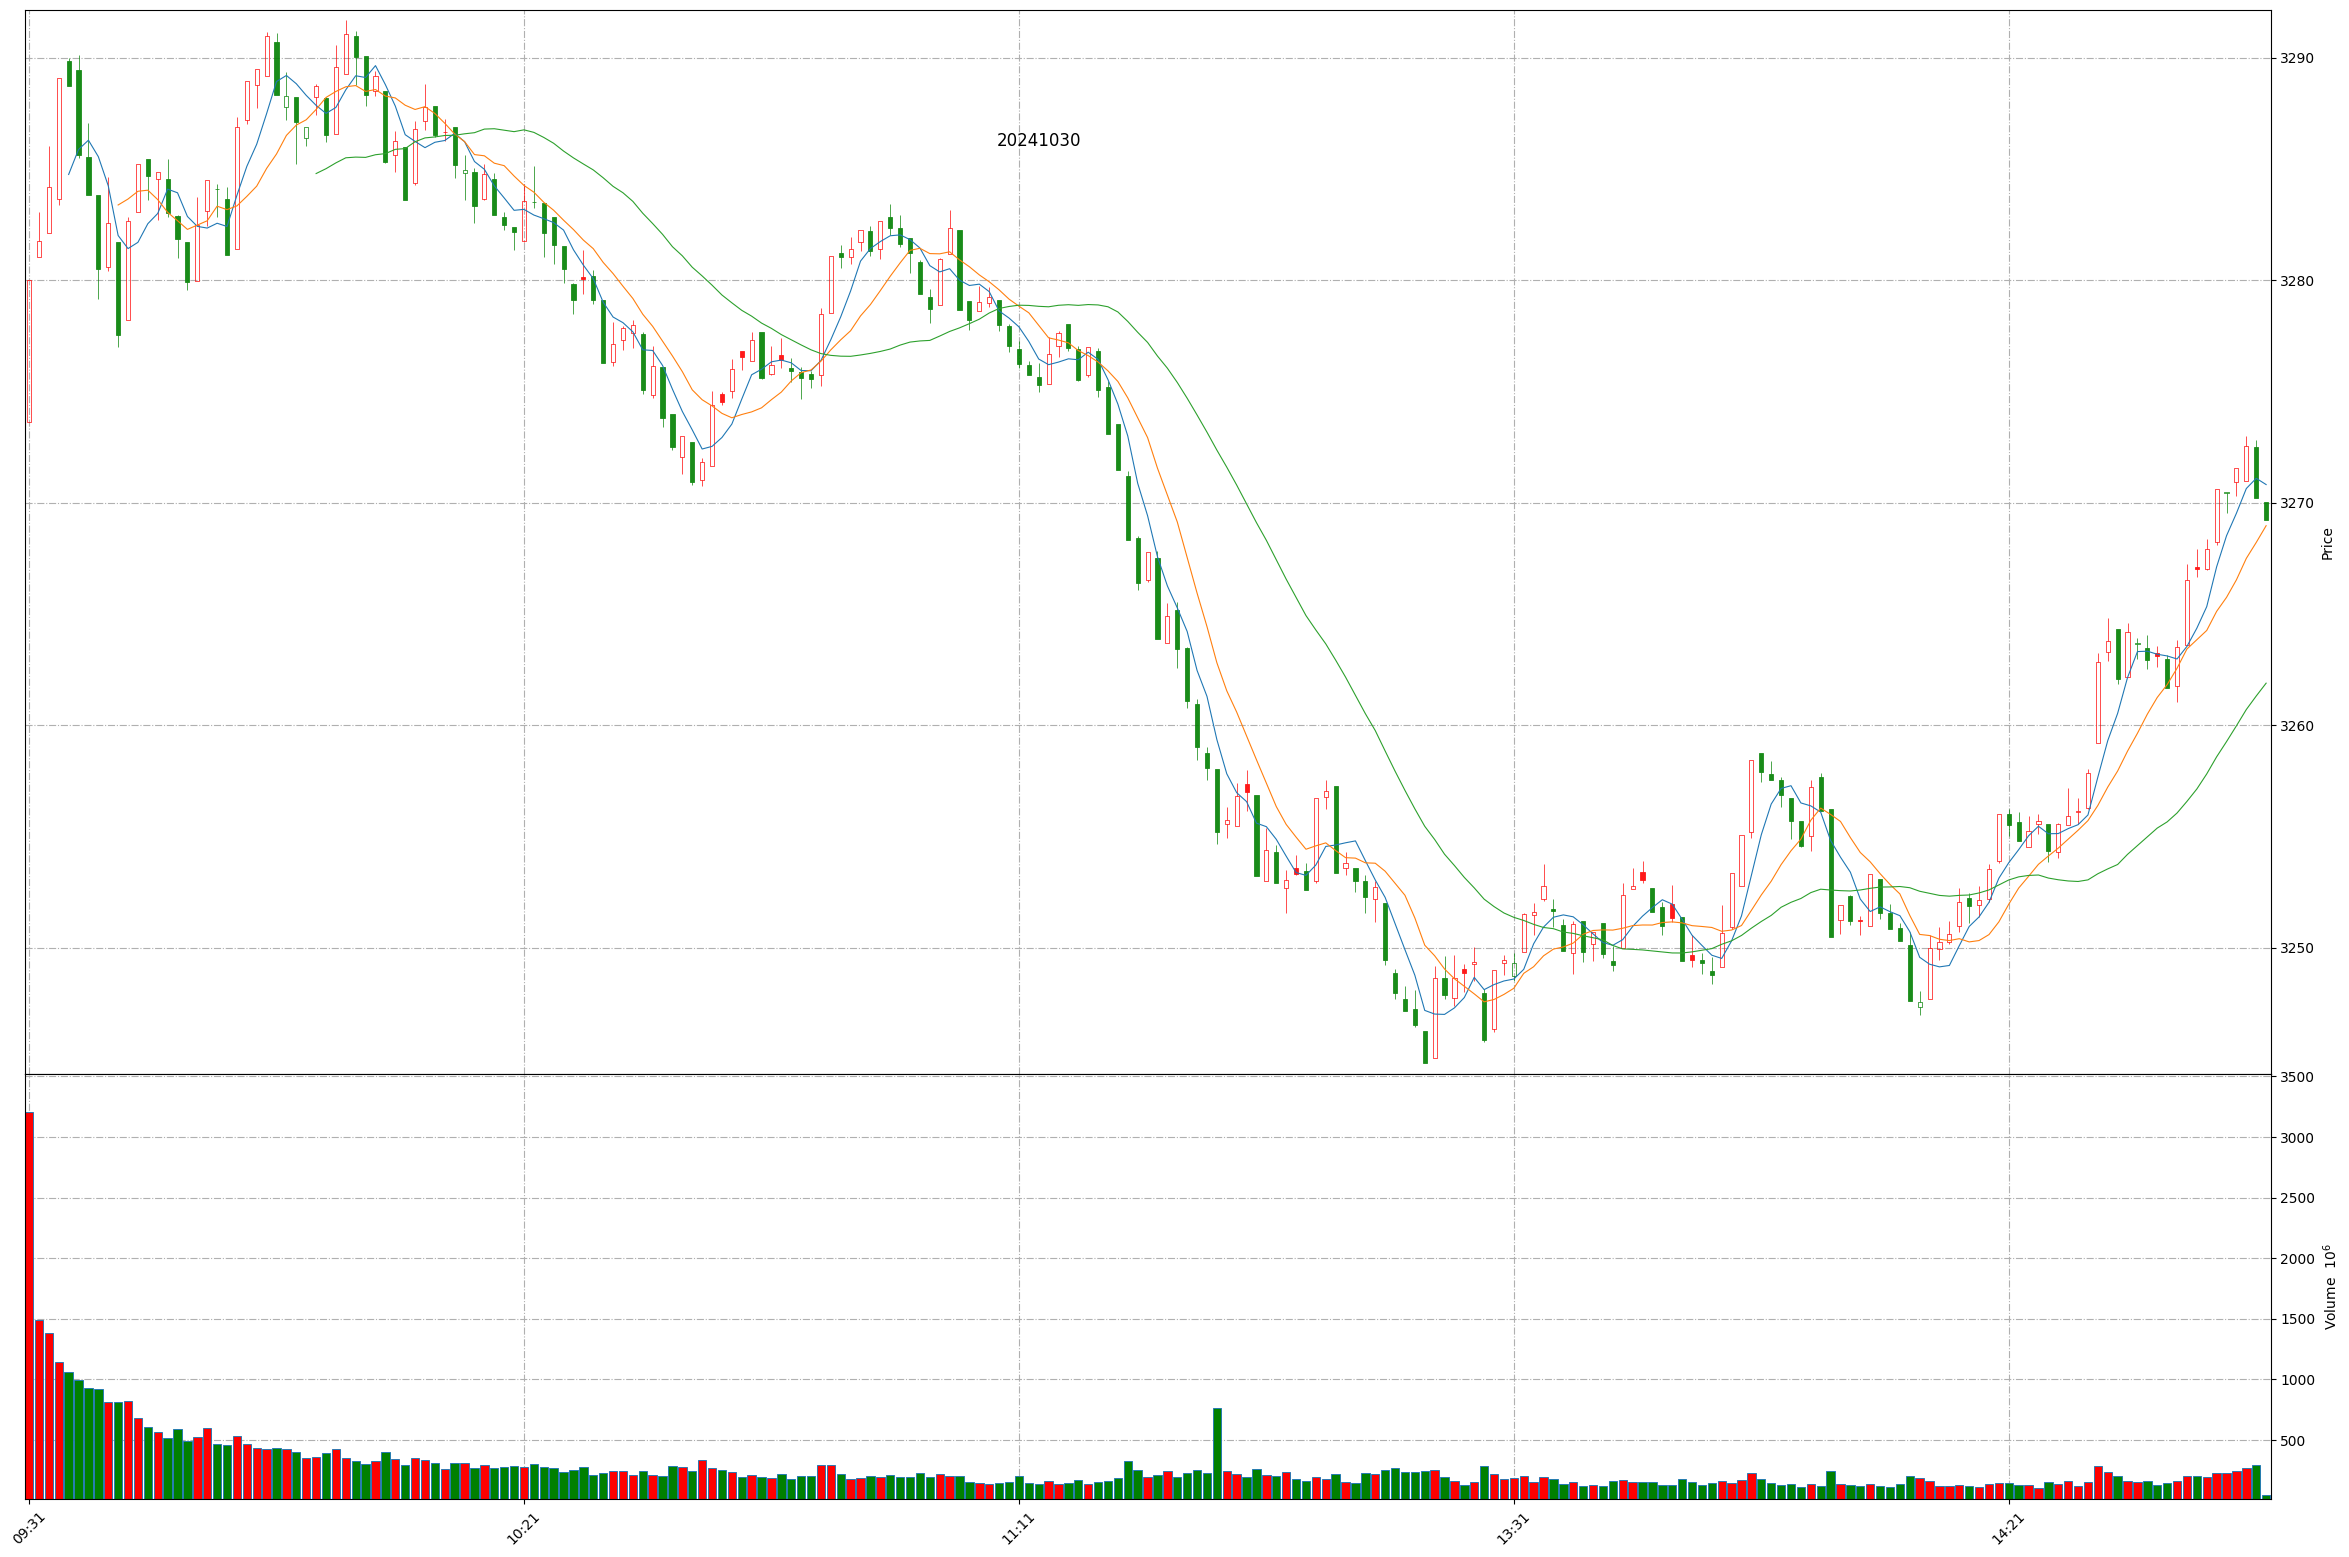
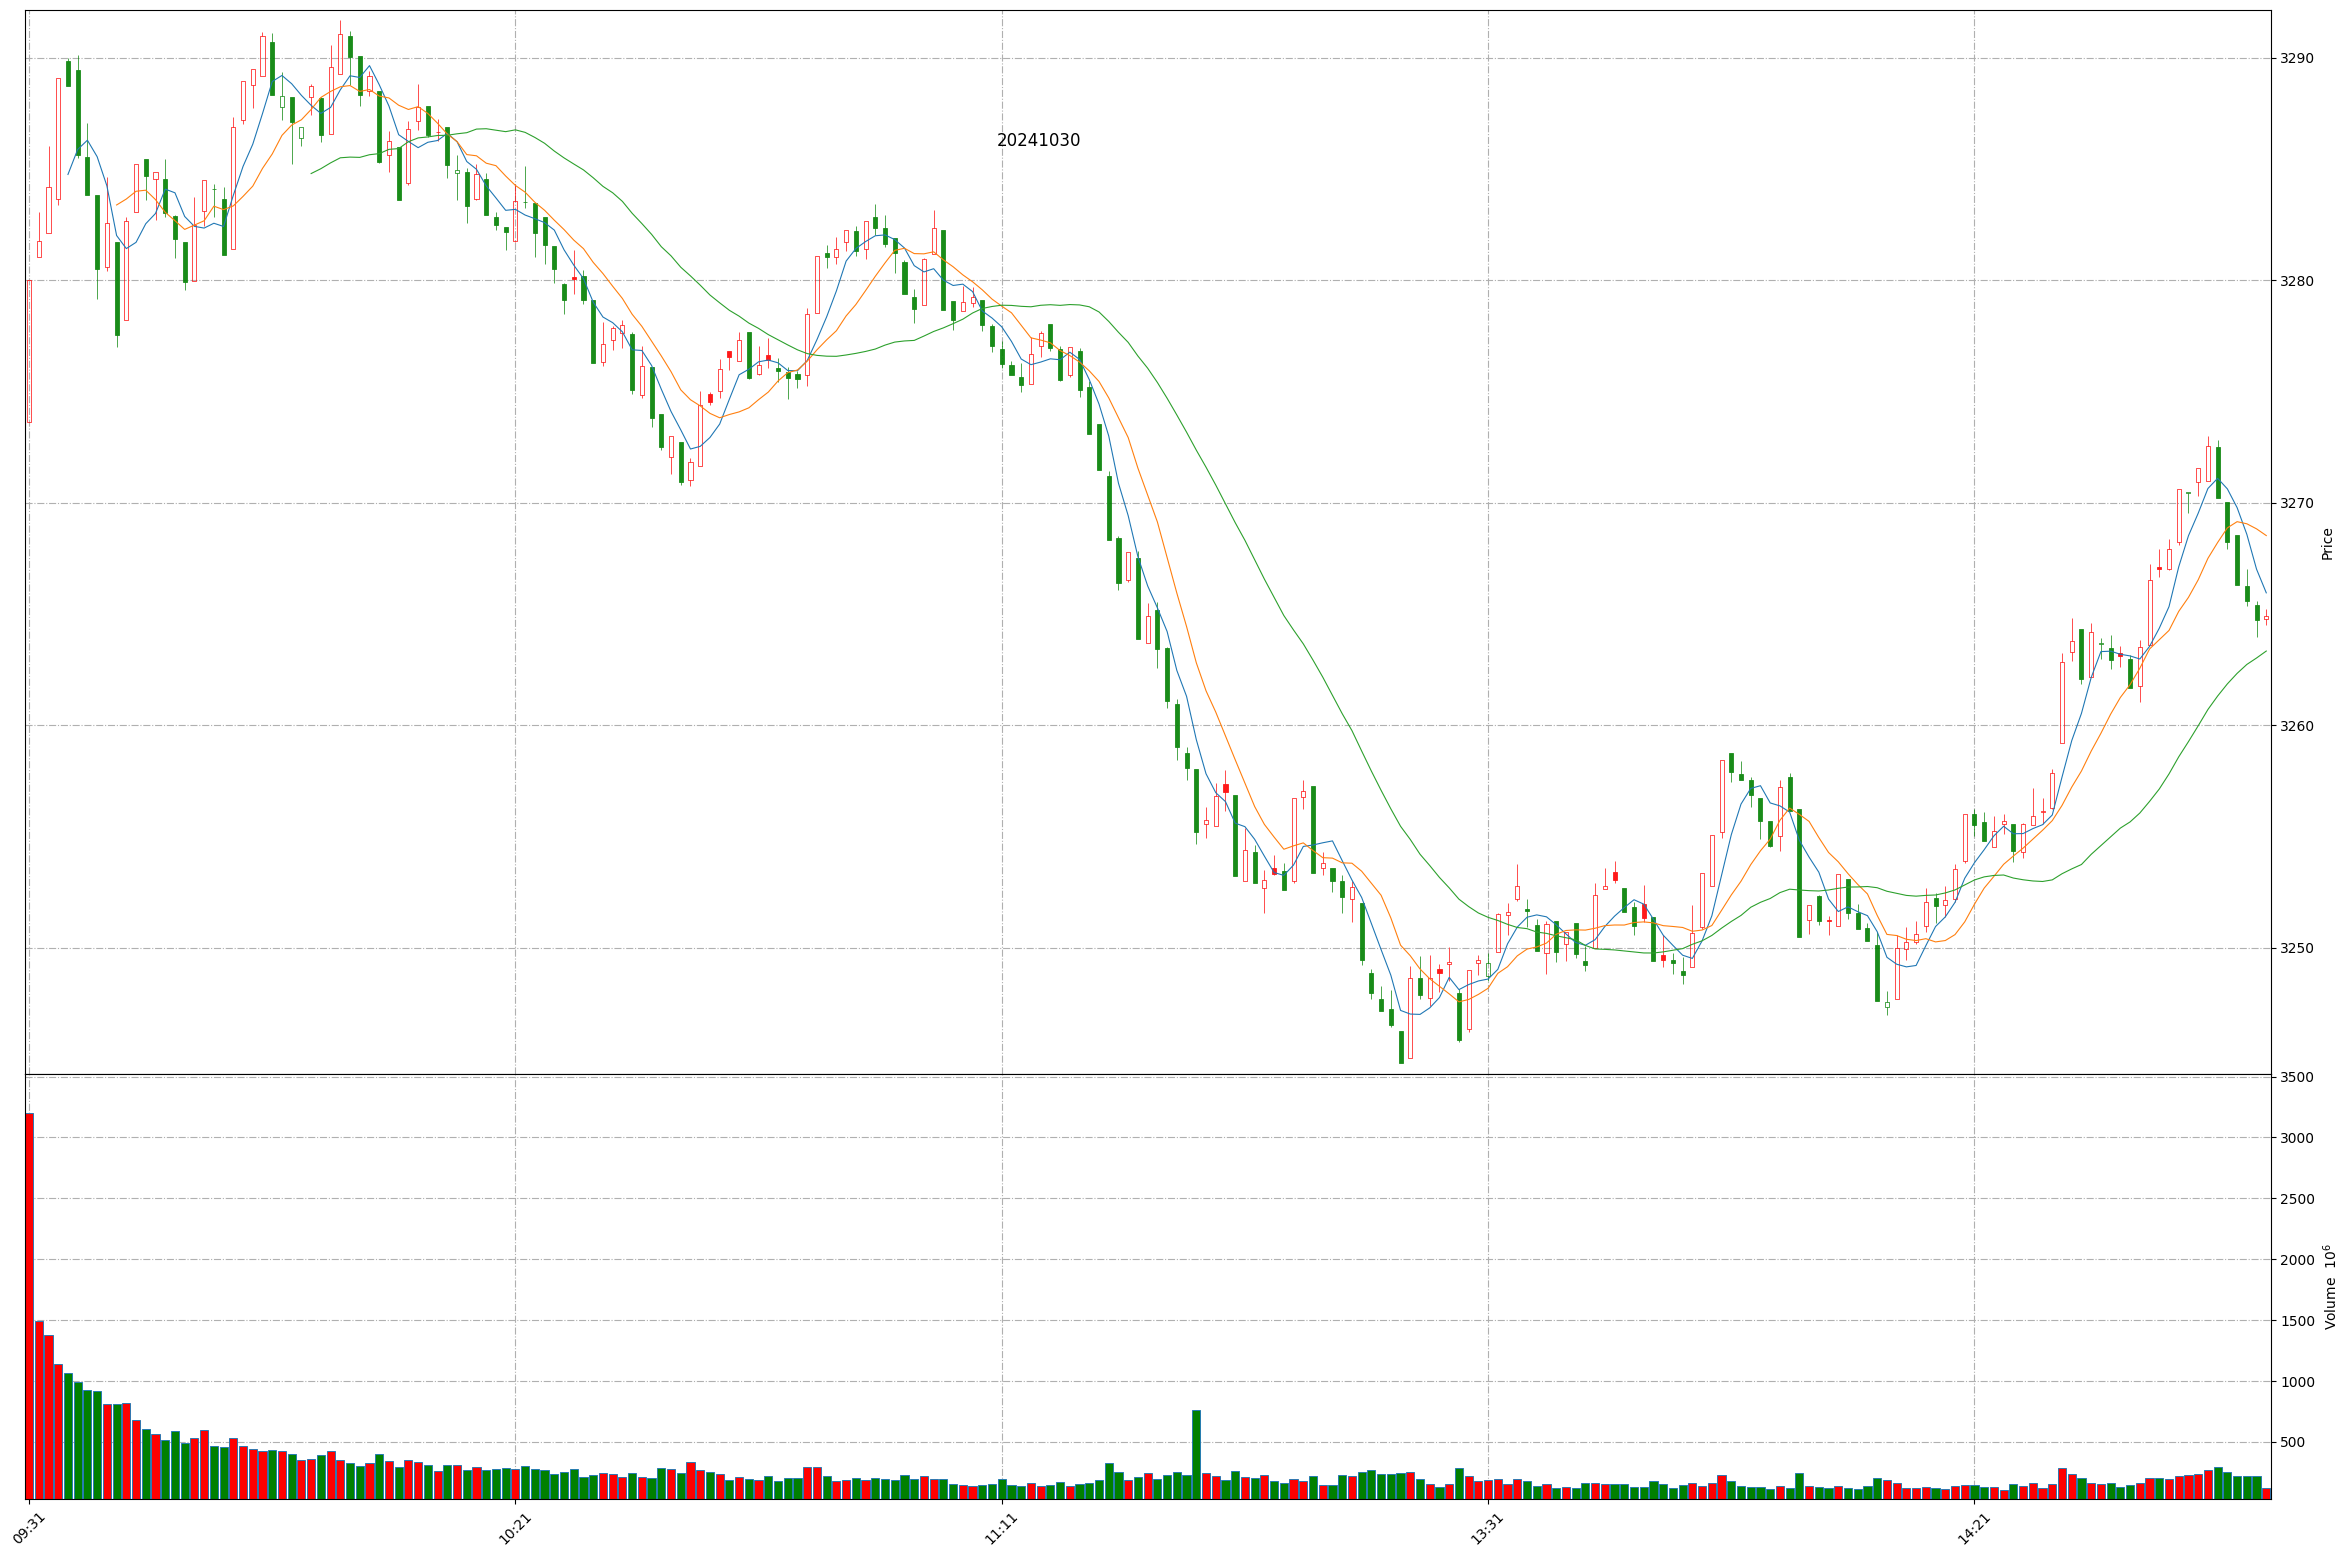
Github action update at 2024-10-30 14:50:43.

diff --git a/README.md b/README.md
@@ -1,11 +1,11 @@
 
 # Daily-A-share-market-quotes 每日 A 股指数（5min 更新）- 20241030
 
-### 上证指数 20241030 14:46
+### 上证指数 20241030 14:50
 ![](./fig/2024/10/20241030-sh000001.png)
 
-### 深证成指 20241030 14:46
+### 深证成指 20241030 14:50
 ![](./fig/2024/10/20241030-sz399001.png)
 
-### 北证50 20241030 14:46
+### 北证50 20241030 14:50
 ![](./fig/2024/10/20241030-bj899050.png)
